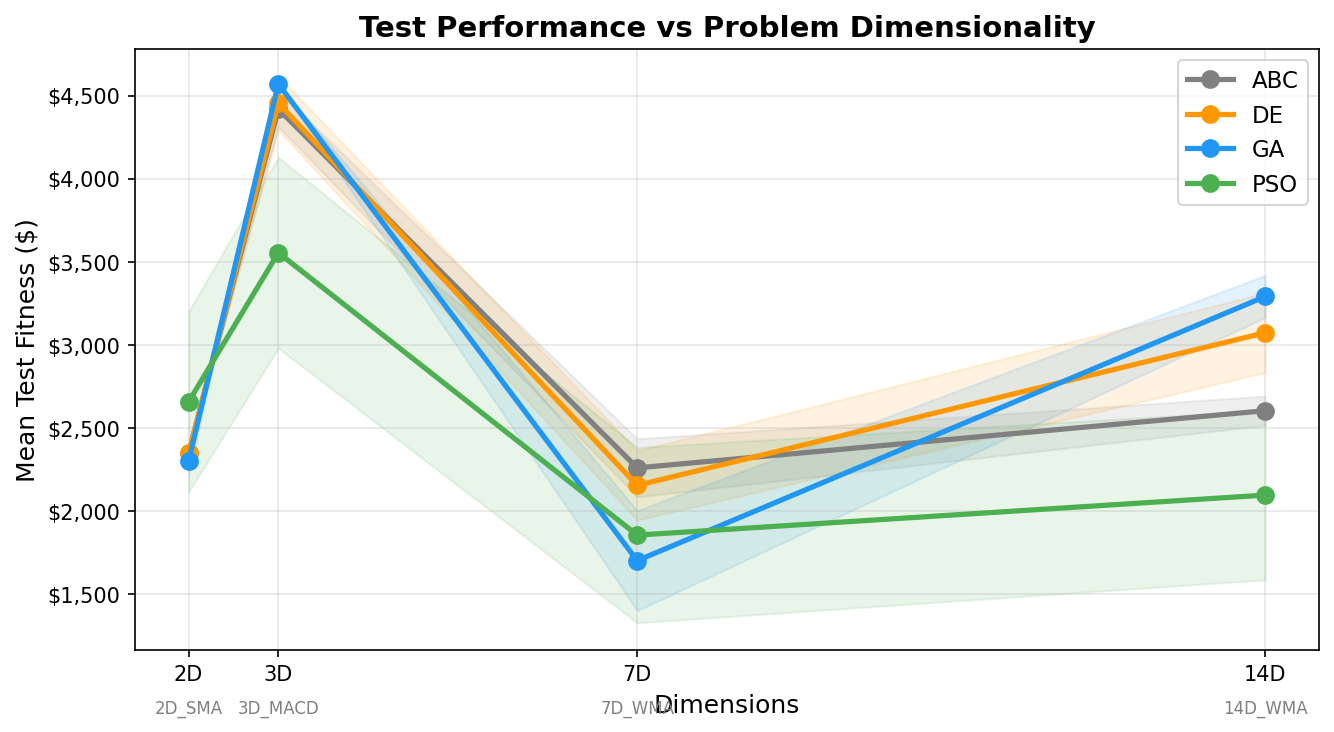
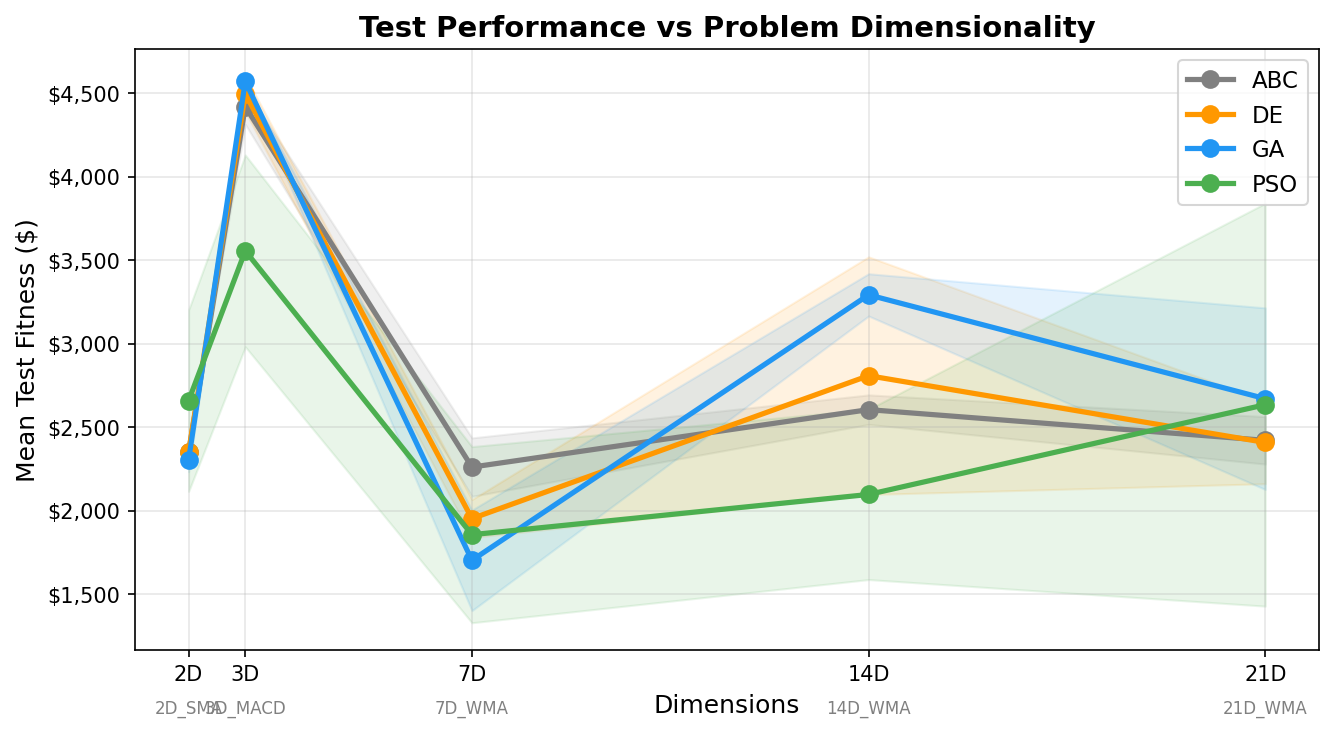
implemented 21d strategies and incorporate into visualisation

diff --git a/trading_strategies/strategies.py b/trading_strategies/strategies.py
@@ -152,7 +152,107 @@ class WMACrossover14D(BaseStrategy):
 
         return np.where(high > low, 1, -1)
 
+#21D
+class WMACrossover21D(BaseStrategy):
+    """
+    21D blended MACD strategy.
+    Three blended WMA lines — FAST, SLOW, SIGNAL — each with 7 parameters.
+    
+    MACD line   = FAST_WMA − SLOW_WMA
+    Signal line = blended WMA of MACD line
+    Buy  when MACD line crosses above Signal line
+    Sell when MACD line crosses below Signal line
 
+    params = [w1_f, w2_f, w3_f, d1_f, d2_f, d3_f, alpha_f,   ← FAST   (7)
+              w1_s, w2_s, w3_s, d1_s, d2_s, d3_s, alpha_s,   ← SLOW   (7)
+              w1_g, w2_g, w3_g, d1_g, d2_g, d3_g, alpha_g]   ← SIGNAL (7)
+    """
+    def generate(self, price, params):
+        # ── Unpack FAST (7) ─────────────────────────────────
+        w1_f, w2_f, w3_f = params[0], params[1], params[2]
+        d1_f = int(max(5, round(params[3])))
+        d2_f = int(max(5, round(params[4])))
+        d3_f = int(max(5, round(params[5])))
+        alpha_f = float(params[6])
+
+        # ── Unpack SLOW (7) ─────────────────────────────────
+        w1_s, w2_s, w3_s = params[7], params[8], params[9]
+        d1_s = int(max(5, round(params[10])))
+        d2_s = int(max(5, round(params[11])))
+        d3_s = int(max(5, round(params[12])))
+        alpha_s = float(params[13])
+
+        # ── Unpack SIGNAL (7) ───────────────────────────────
+        w1_g, w2_g, w3_g = params[14], params[15], params[16]
+        d1_g = int(max(5, round(params[17])))
+        d2_g = int(max(5, round(params[18])))
+        d3_g = int(max(5, round(params[19])))
+        alpha_g = float(params[20])
+
+        # ── Build FAST blended WMA ───────────────────────────
+        sma_f = Indicators.sma(price, d1_f)
+        lma_f = Indicators.lma(price, d2_f)
+        ema_f = Indicators.ema(price, d3_f, alpha_f)
+        min_f = min(len(sma_f), len(lma_f), len(ema_f))
+        sma_f, lma_f, ema_f = sma_f[-min_f:], lma_f[-min_f:], ema_f[-min_f:]
+        total_f = w1_f + w2_f + w3_f + 1e-6
+        fast_line = (w1_f*sma_f + w2_f*lma_f + w3_f*ema_f) / total_f
+
+        # ── Build SLOW blended WMA ───────────────────────────
+        sma_s = Indicators.sma(price, d1_s)
+        lma_s = Indicators.lma(price, d2_s)
+        ema_s = Indicators.ema(price, d3_s, alpha_s)
+        min_s = min(len(sma_s), len(lma_s), len(ema_s))
+        sma_s, lma_s, ema_s = sma_s[-min_s:], lma_s[-min_s:], ema_s[-min_s:]
+        total_s = w1_s + w2_s + w3_s + 1e-6
+        slow_line = (w1_s*sma_s + w2_s*lma_s + w3_s*ema_s) / total_s
+
+        # ── MACD line = FAST − SLOW ──────────────────────────
+        min_macd  = min(len(fast_line), len(slow_line))
+        fast_line = fast_line[-min_macd:]
+        slow_line = slow_line[-min_macd:]
+        macd_line = fast_line - slow_line
+
+        # ── Build SIGNAL line (blended WMA of MACD line) ────
+        sma_g = Indicators.sma(macd_line, d1_g)
+        lma_g = Indicators.lma(macd_line, d2_g)
+        ema_g = Indicators.ema(macd_line, d3_g, alpha_g)
+        min_g = min(len(sma_g), len(lma_g), len(ema_g))
+        sma_g, lma_g, ema_g = sma_g[-min_g:], lma_g[-min_g:], ema_g[-min_g:]
+        total_g = w1_g + w2_g + w3_g + 1e-6
+        signal_line = (w1_g*sma_g + w2_g*lma_g + w3_g*ema_g) / total_g
+
+        # ── Align MACD and SIGNAL lines ──────────────────────
+        min_len     = min(len(macd_line), len(signal_line))
+        macd_line   = macd_line[-min_len:]
+        signal_line = signal_line[-min_len:]
+
+        # ── Crossover signals ────────────────────────────────
+        above   = macd_line > signal_line
+        signals = np.zeros(min_len, dtype=int)
+
+        for i in range(1, min_len):
+            if above[i] and not above[i-1]:
+                signals[i] = 1       # golden cross → buy
+            elif not above[i] and above[i-1]:
+                signals[i] = -1      # death cross  → sell
+
+        # ── Hold position between crossovers ─────────────────
+        position = -1
+        result   = np.zeros(min_len, dtype=int)
+
+        for i in range(min_len):
+            if signals[i] == 1:
+                position = 1
+            elif signals[i] == -1:
+                position = -1
+            result[i] = position
+
+        # ── Pad to match original price length ───────────────
+        full_signal = np.full(len(price), result[0])
+        full_signal[-min_len:] = result
+
+        return full_signal
 
 
 

diff --git a/main.py b/main.py
@@ -91,6 +91,27 @@ STRATEGIES = {
              0.4, 0.4, 0.2, 50, 40, 60, 0.1],
         ],
     },
+    '21D_WMA': {
+    'cls': strategies.WMACrossover21D,
+    'config': {
+        "pop_size":  30,
+        "max_iter":  100,
+        "dim":       21,
+        "bounds":    (
+            [(0, 1)] * 3 + [(5, 100)] * 3 + [(0.01, 0.99)] +  # FAST
+            [(0, 1)] * 3 + [(5, 100)] * 3 + [(0.01, 0.99)] +  # SLOW
+            [(0, 1)] * 3 + [(5, 50)]  * 3 + [(0.01, 0.99)]    # SIGNAL
+        ),
+        "max_time":  120,
+        "patience":  100,
+        "min_delta": 0.0,
+    },
+    'diagnostics': [
+        [0.5, 0.3, 0.2, 20, 15, 10, 0.3,
+         0.3, 0.4, 0.3, 50, 40, 60, 0.1,
+         0.4, 0.3, 0.3, 10,  8, 12, 0.5],
+    ],
+  },
 }
 
 def load_data(filepath):

diff --git a/visualisations/comparison_plots.py b/visualisations/comparison_plots.py
@@ -17,6 +17,7 @@ STRAT_COLOURS = {
     '3D_MACD': '#9C27B0',
     '7D_WMA':  '#00BCD4',
     '14D_WMA': '#FF5722',
+    '21D_WMA': "#0F0401",
 }
 
 DIMS = {
@@ -24,6 +25,7 @@ DIMS = {
     '3D_MACD': 3,
     '7D_WMA':  7,
     '14D_WMA': 14,
+    '21D_WMA': 21
 }
 
 OUTPUT_DIR = 'visualisations/plot/comparisons'
